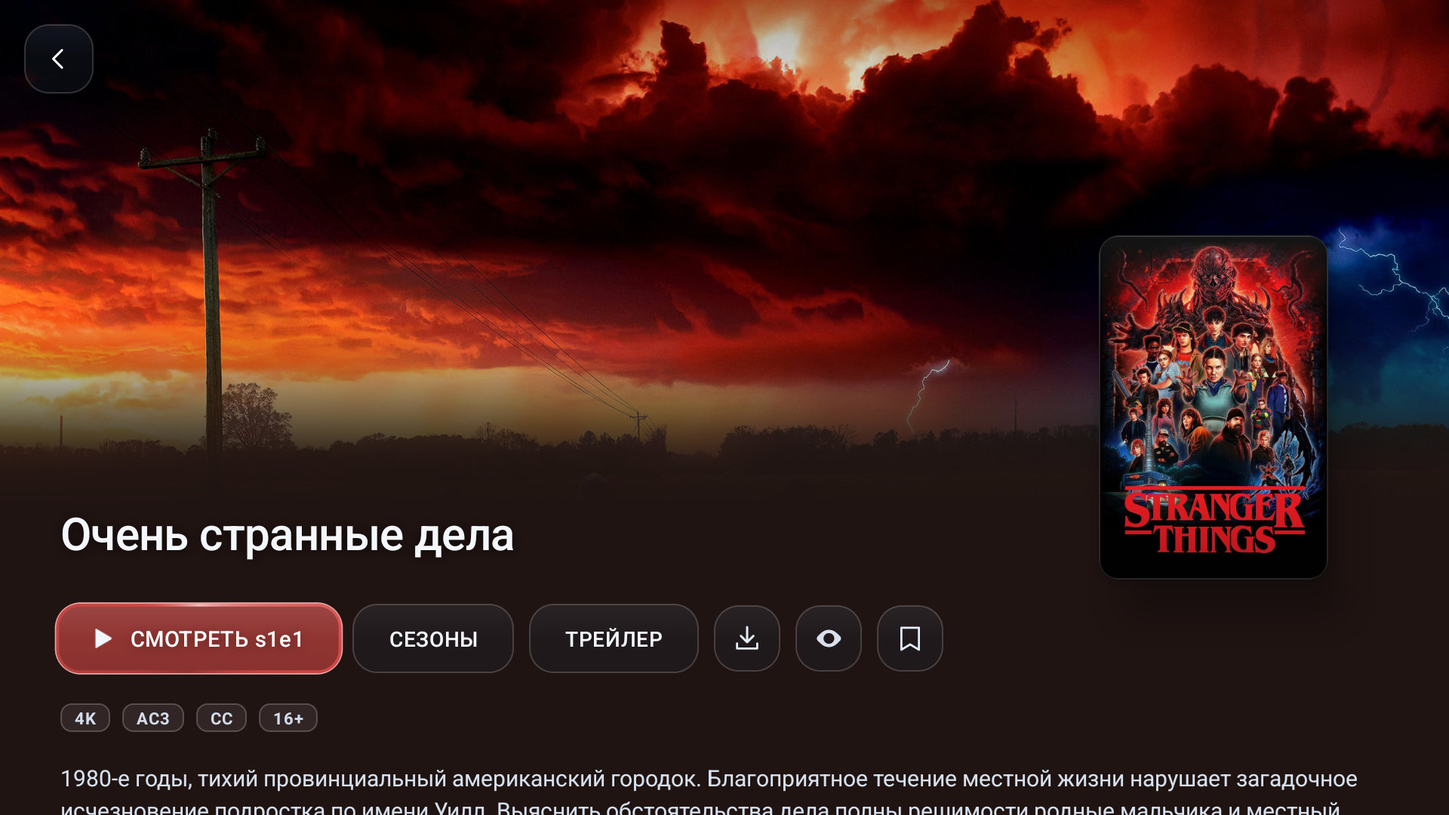
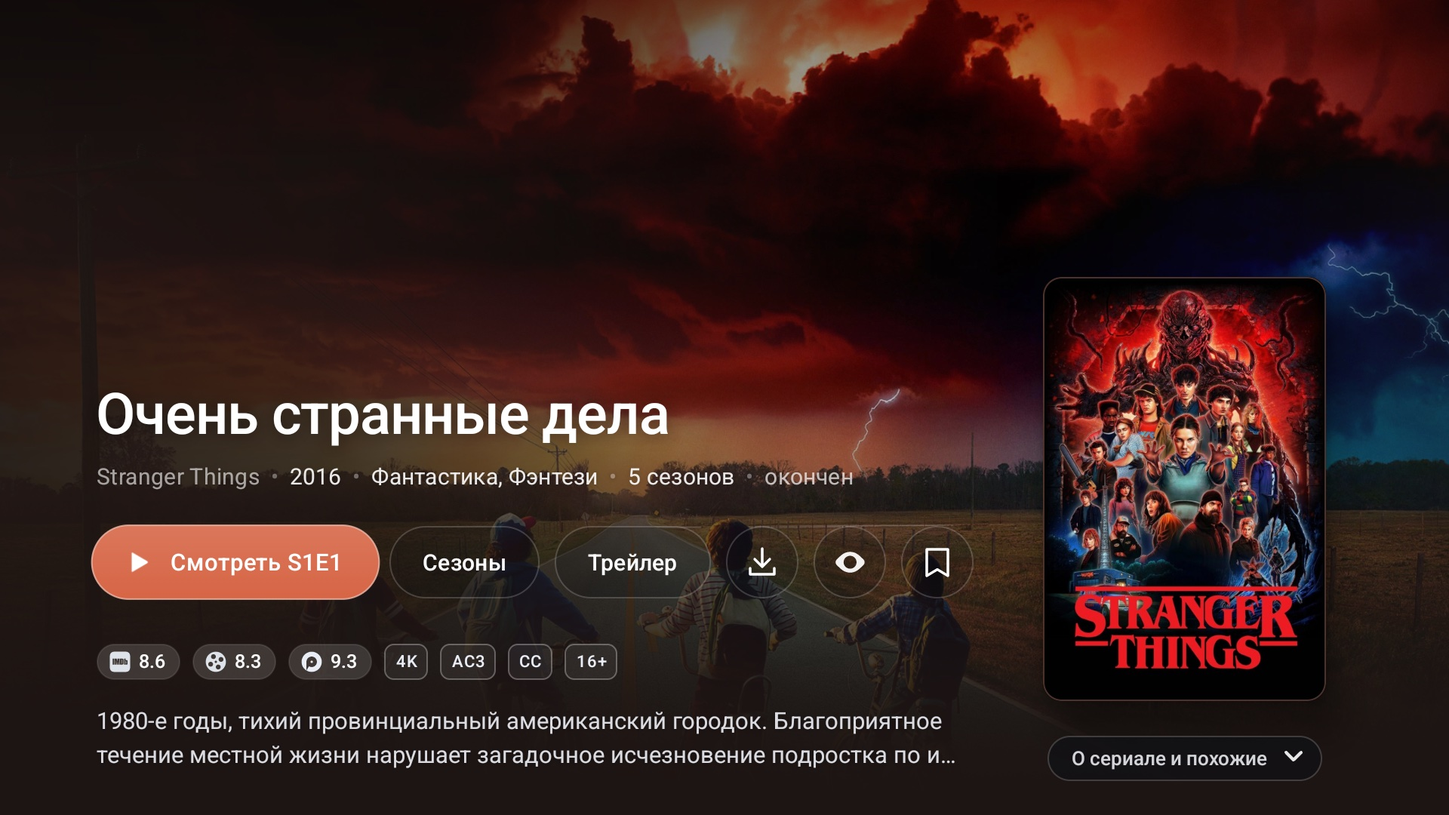
README: v2.5.0, new screenshots
The feature list now covers v2.2.5-v2.5.0 (header with pinned tabs,
ratings on the poster cover, search by actor or director, episode
quality, settings in two sections) and names v2.5.0 as the latest build.
Screenshots retaken on build 187, plus a catalogue shot.

diff --git a/README.md b/README.md
@@ -31,9 +31,15 @@ KinoWatch - клиент видеосервиса kino.pub для телевиз
 ## Скриншоты
 
 <p align="center">
-  <img src="docs/screenshots/home.jpg" width="100%" alt="Главная: выбранный фильм показан крупно, у него играет трейлер">
+  <img src="docs/screenshots/home.jpg" width="100%" alt="Главная: стеклянная шапка с вкладками, у выбранного фильма играет трейлер">
   <br>
-  <em>Главная: выбранный фильм показан крупно, у него играет трейлер</em>
+  <em>Главная: стеклянная шапка с вкладками, у выбранного фильма играет трейлер</em>
+</p>
+
+<p align="center">
+  <img src="docs/screenshots/catalog.jpg" width="100%" alt="Каталог: рейтинги KinoPub, IMDb и КиноПоиск на полоске внизу обложки">
+  <br>
+  <em>Каталог: рейтинги KinoPub, IMDb и КиноПоиск на полоске внизу обложки, под постером название, год и жанры</em>
 </p>
 
 <p align="center">
@@ -49,9 +55,9 @@ KinoWatch - клиент видеосервиса kino.pub для телевиз
 </p>
 
 <p align="center">
-  <img src="docs/screenshots/search.jpg" width="100%" alt="Поиск: сетка постеров с годом и рейтингами IMDb и КП">
+  <img src="docs/screenshots/search.jpg" width="100%" alt="Поиск по запросу «Harry Potter»">
   <br>
-  <em>Поиск: под постером показаны год и рейтинги IMDb и КП</em>
+  <em>Поиск: ищет по названию, а также по имени актёра или режиссёра</em>
 </p>
 
 ## Что добавлено по сравнению с оригиналом 2.07
@@ -61,6 +67,9 @@ KinoWatch - клиент видеосервиса kino.pub для телевиз
 - Новый стартовый экран «Главная»: вкладки «Фильмы» и «Сериалы» с полками, у выбранного фильма
   сам запускается трейлер.
 - Все экраны оформлены как главная: одни цвета, одна шапка, одно окно для вопросов приложения.
+- Любую вкладку можно закрепить в шапке, тогда она видна на всех экранах.
+- Рейтинги KinoPub, IMDb и КиноПоиск стоят прямо на обложке постера.
+- Поиск находит фильмы по имени актёра или режиссёра, имя можно вводить и латиницей.
 - Мод сам предлагает свою новую версию, а после обновления показывает список изменений.
 - Главная и каталог на приставке Xiaomi листаются без рывков.
 - Автовыбор качества включает 4K через 1-2 с после старта, а раньше на это уходило 20-60 с.
@@ -72,10 +81,10 @@ KinoWatch - клиент видеосервиса kino.pub для телевиз
 Полный список изменений раскрывается по разделам.
 
 Изменения последней сборки описаны в релизе
-[v2.2.4](https://github.com/nlarionov/kino-watch-mod/releases/tag/v2.2.4).
+[v2.5.0](https://github.com/nlarionov/kino-watch-mod/releases/tag/v2.5.0).
 
 <details>
-<summary><b>Интерфейс</b>: стеклянное оформление, выделение, страница фильма, боковое меню, тест скорости</summary>
+<summary><b>Интерфейс</b>: стеклянное оформление, шапка и закреплённые вкладки, постеры с рейтингами, страница фильма, боковое меню, тест скорости</summary>
 
 - Новое стеклянное оформление: сквозь боковое меню и верхнюю панель виден размытый экран. В том
   же стиле сделаны кнопки, выпадающие списки и экран настроек.
@@ -83,18 +92,35 @@ KinoWatch - клиент видеосервиса kino.pub для телевиз
   подборки, фильтры, настройки и окна. Цвета одни и те же, без синих оттенков, кнопки в форме
   «таблеток». Все вопросы приложения открываются в одном тёмном окне, серого системного окна
   больше нет.
-- На телевизоре у всех экранов, кроме главной и страницы фильма, шапка главной: меню или
-  «Назад», KINO.WATCH, название экрана, «Поиск», «Фильтры» и часы. Со всех сеток стрелка вверх
-  ведёт в шапку.
+- На телевизорах с Android 9 и новее меню «Открыть с помощью…», выбор сервера и списки в
+  настройках тоже тёмные. Экраны «Загрузки», «Сезоны» и «Эпизоды» получили тёмный фон.
+- На телевизоре у всех экранов одна шапка, как на главной: слева ☰ и KINO.WATCH, справа
+  закреплённые вкладки, ⚙ и часы. Кнопка открытого экрана подсвечена. Кнопки «Назад» в шапке
+  нет, назад ведёт кнопка пульта. Со всех сеток стрелка вверх ведёт в шапку.
+- Выбранная вкладка стоит на светлой стеклянной капсуле, и капсула плавно перетекает на новую
+  вкладку. Настройка «Стиль шапки» возвращает прежнюю плоскую шапку («Классика»).
+- Любую вкладку можно закрепить: она стоит значком справа в шапке и видна на всех экранах.
+  Закрепляют булавкой во «Вкладках стартового экрана» или долгим OK на вкладке.
+- По умолчанию шапка компактная: закреплённые вкладки спрятаны за «‹ ⚙» и выезжают, когда фокус
+  стоит на ⚙ или на одной из них. OK на ⚙ открывает настройки. «Кнопки шапки» → «Все видны»
+  показывает все кнопки сразу.
+- Красная точка новых серий у «Я смотрю» видна в шапке любого экрана.
 - Выделенный постер или кнопка увеличивается, приподнимается и получает светлую рамку, по
   картинке пробегает блик.
-- Под постером в сетке показаны год и рейтинги IMDb и КП. Длинное название выбранного постера
+- Рейтинги KinoPub, IMDb и КиноПоиск стоят на матовой стеклянной полоске внизу обложки. Рейтинг
+  KinoPub показан, если за фильм проголосовали хотя бы 10 человек. Под постером название, год и
+  жанры. Если строка не помещается, первым убирается год. Длинное название выбранного постера
   прокручивается.
 - Страница фильма и сериала: фоновый кадр плавно переходит в цвет постера, кнопки стеклянные.
   Если кнопкам не хватает места, их текст уменьшается или они переходят на вторую строку. На
   телевизоре кнопки «Назад» на экране нет, назад ведёт кнопка пульта.
+- Рейтинг KinoPub на странице фильма показан по 10-балльной шкале, как на сайте. У фильма с
+  несколькими версиями показана длительность одной версии, а не их сумма.
 - На странице фильма под «Похожие» стоят карточки подборок, в которые входит фильм. Карточка
-  открывает подборку.
+  открывает подборку. «Похожие» и «Подборки» того же размера, что постеры в каталоге, и с той
+  же полоской рейтингов.
+- На картинке каждой серии в углу стоит её лучшее качество: 4K, FHD, HD или SD. Так видно,
+  перезалил ли kino.pub серию в лучшем качестве.
 - Кнопка начатой серии называется «Продолжить S2E3», новой серии «Смотреть S2E3». Так же и
   на странице, открытой по ссылке: из каналов главного экрана или из поиска Android TV.
 - Трейлер на странице фильма не записывается как просмотр фильма.
@@ -107,14 +133,13 @@ KinoWatch - клиент видеосервиса kino.pub для телевиз
   последнюю неделю «Осталось 3 дня»). OK на профиле открывает выбор аватара.
 - В боковом меню у «Я смотрю» стоит число новых серий, на главной у вкладки «Я смотрю» горит
   красная точка.
-- У экранов «Я смотрю», «Закладки», «История» и «Загрузки» появилось своё боковое меню. Стрелка
-  влево у левого края или «Назад» открывает его поверх экрана.
+- ☰ в шапке открывает боковое меню прямо на текущем экране. На экранах «Я смотрю», «Закладки»,
+  «История», «Загрузки» и «Подборки» стрелка влево из первого столбца ведёт к ☰. В каталоге
+  стрелка влево открывает меню, как раньше.
 - На экране теста скорости у каждого сервера своя кнопка, а сам экран открывается на «Замерить
   оба сервера». Замер идёт 6 секунд, цифра растёт на глазах. Строка без замера показывает
   результат фонового замера и его возраст. Замер больше не пишет 100 МБ во флеш-память
   приставки.
-- Поиск не показывает ошибку на каждую букву: запрос, который отменила следующая буква, ошибкой
-  не считается.
 - Выключено анимированное свечение вокруг выделенного элемента. Оно рисовалось одну секунду из
   шести, а перерисовывало экран 60 раз в секунду все шесть секунд.
 - Главная и каталог на приставке Xiaomi листаются без рывков. На главной медленных кадров
@@ -129,24 +154,29 @@ KinoWatch - клиент видеосервиса kino.pub для телевиз
 </details>
 
 <details>
-<summary><b>Стартовый экран</b>: вкладки, полки, трейлеры, «Продолжить просмотр»</summary>
+<summary><b>Стартовый экран</b>: вкладки, переключатели, полки, трейлеры, «Продолжить просмотр»</summary>
 
 - Появился экран «Главная». При первом запуске на телевизоре мод открывается на нём. Настройка
   «Стартовый экран» возвращает «Библиотеку», «Я смотрю» или «Закладки».
-- Вверху стоят вкладки «Фильмы», «Сериалы», «Я смотрю», «Поиск» и «Каталог». Вкладки
-  «Мультфильмы», «Аниме», «Мультсериалы», «ТВ шоу», «Концерты», «4K», «Документальные»,
-  «Закладки» и «История» включаются в настройке «Вкладки стартового экрана», там же меняется
-  порядок вкладок.
+- Вверху стоят вкладки «Фильмы» и «Сериалы». «Я смотрю», «Закладки», «История», «Поиск» и
+  «Каталог» в новой установке закреплены справа в шапке. Вкладки «Мультфильмы», «Аниме», «ТВ
+  шоу», «Концерты», «4K», «Документальные», «Подборки» и «Спорт-ТВ» включаются в настройке
+  «Вкладки стартового экрана», там же меняется порядок вкладок.
+- Долгий OK на вкладке: стрелки влево и вправо переставляют её, вверх и вниз закрепляют и
+  открепляют.
+- На вкладке «Мультфильмы» есть переключатель «Мультфильмы | Мультсериалы», выбор запоминается.
+  На вкладках «Аниме», «Документальные» и «4K» есть переключатель «Фильмы | Сериалы», «Аниме»
+  открывается на сериалах.
 - Вкладка «Аниме» показывает аниме, даже если включено «Отключение аниме».
-- Вкладки «Фильмы» и «Сериалы» собраны из полок: «Продолжить просмотр», «Сейчас в тренде»,
-  новые, популярные и, если включить, 4K. На вкладке «Мультфильмы» можно включить полки «Лучшие
-  KINO.WATCH», «Лучшие IMDb» и «Лучшие КиноПоиск».
+- Каждая вкладка собрана из одинаковых полок: «Сейчас в тренде», новые и популярные. На
+  вкладках «Фильмы» и «Сериалы» есть ещё «Продолжить просмотр». Полки 4K и лучшие по оценкам
+  KINO.WATCH, IMDb и КиноПоиска включаются в «Разделах и порядке».
 - Полка «Сейчас в тренде» показывает фильмы крупно. У выбранного фильма сам запускается
   трейлер со звуком, кнопка Play на пульте включает и выключает звук. С выключенной настройкой
   «Автоматические трейлеры» видна только обложка.
-- Последняя карточка полки, «Смотреть все», открывает раздел целиком. У «Продолжить просмотр»
-  эта карточка называется «Все» и открывает «Я смотрю» на фильмах или на сериалах, смотря на
-  какой вкладке стоит полка.
+- Последняя карточка полки, «Смотреть все», открывает тот же список в каталоге. У «Продолжить
+  просмотр» эта карточка называется «Все» и открывает «Я смотрю» на фильмах или на сериалах,
+  смотря на какой вкладке стоит полка.
 - Карточка в «Продолжить просмотр» сразу запускает видео с места остановки, сериал с нужной
   серии. На карточке написано, сколько осталось или какая серия следующая.
 - В «Продолжить просмотр» попадает начатый сериал, даже без подписки. Подписка нужна только для
@@ -154,6 +184,8 @@ KinoWatch - клиент видеосервиса kino.pub для телевиз
   недавно.
 - Сериал или фильм, который пересматривают, тоже попадает в «Продолжить просмотр». После
   досмотренной серии ряд предлагает следующую, недосмотренную продолжает с места остановки.
+- В «Продолжить просмотр» нет фильмов, досмотренных до титров, фильмов, которые только открыли,
+  и сериалов, целиком отмеченных просмотренными. Ряд появляется, только когда в нём что-то есть.
 - Что показывать в «Продолжить просмотр» на вкладках «Фильмы» и «Сериалы», выбирается в
   настройках: только фильмы или сериалы этой вкладки, или всё вместе.
 - Если kino.pub временно отказал («слишком много запросов»), «Продолжить просмотр» не пропадает
@@ -165,6 +197,23 @@ KinoWatch - клиент видеосервиса kino.pub для телевиз
 - Набор и порядок полок меняются в настройке «Разделы и порядок».
 - На телефоне у главной своя раскладка для сенсорного экрана.
 - Чтобы выйти с главной, «Назад» нужно нажать дважды.
+
+</details>
+
+<details>
+<summary><b>Каталог и поиск</b>: одинаковые списки во всех разделах, «Аниме» в меню, поиск по актёрам</summary>
+
+- В каждом разделе каталога одни и те же списки, если они есть на kino.pub: все, новинки,
+  популярные, в тренде, 4K, лучшие KINO.WATCH, лучшие IMDb и лучшие КиноПоиск. «Горячие» теперь
+  называются «В тренде», как на главной.
+- В «Мультфильмах», «Аниме» и «4K» сначала идут все списки фильмов, потом все списки сериалов.
+  Для мультсериалов есть свои списки.
+- В боковом меню есть раздел «Аниме».
+- Поиск находит фильмы актёров и режиссёров, имя можно вводить и латиницей: «Tom Hardy»,
+  «Nolan». Если запрос похож на имя, фильмы этого человека стоят первыми. Имена, которые
+  kino.pub пишет иначе («Киану Ривз»), латиницей не находятся.
+- Поиск не показывает ошибку на каждую букву: запрос, который отменила следующая буква, ошибкой
+  не считается.
 
 </details>
 
@@ -191,7 +240,8 @@ KinoWatch - клиент видеосервиса kino.pub для телевиз
 - Уведомление про 4K не появляется на телевизоре без 4K. На телевизоре с 4K его кнопка
   открывает настройки, где 4K включается.
 - В меню «Субтитры» отмечен пункт «Выключить», когда субтитры выключены.
-- Блок статистики стоит справа в строке с названием и не закрывает его.
+- Верхняя панель плеера на телевизоре компактная: название и «Видео / Аудио / Субтитры» слева,
+  статистика справа на той же высоте. Кнопки «Назад» и тёмной полосы больше нет.
 - TalkBack называет кнопки скорости и масштаба своими именами, а не «Следующий трек».
 
 </details>
@@ -225,21 +275,30 @@ KinoWatch - клиент видеосервиса kino.pub для телевиз
 </details>
 
 <details>
-<summary><b>Настройки</b>: стартовый экран, вкладки, полки, размер интерфейса, трейлеры, фото актёров, аватар, загрузки, каналы</summary>
+<summary><b>Настройки</b>: два раздела интерфейса, вкладки, полки, шапка, размер интерфейса, трейлеры, фото актёров, аватар, загрузки, каналы</summary>
 
+- Настройки интерфейса разделены на два раздела. «Стартовый экран»: вкладки, полки,
+  «Продолжить просмотр», трейлеры, меню. «Внешний вид»: размер интерфейса, стиль и кнопки шапки,
+  постеры, цвет выделения. BACK сначала закрывает открытый раздел, второй BACK выходит из
+  настроек.
 - «Стартовый экран»: добавлен вариант «Новый стартовый экран».
-- «Вкладки стартового экрана»: какие вкладки показывать в шапке главной и в каком порядке.
+- «Вкладки стартового экрана»: какие вкладки показывать в шапке главной, в каком порядке и
+  какие закрепить (булавка в строке вкладки).
 - «Разделы и порядок»: какие полки показывать на вкладках главной и в каком порядке. С пульта
   выберите ☰ у полки, нажмите OK и двигайте её стрелками вверх и вниз. Порядок по умолчанию
   можно восстановить.
 - «Элементов в строке»: 10 или 20 фильмов и сериалов в каждой полке главной.
 - «Размер интерфейса»: «Компактный», «Стандартный» или «Крупный». Меняет шрифт, кнопки и
   постеры на всех экранах телевизора, по умолчанию стоит «Стандартный».
+- «Стиль шапки»: «Стекло» (по умолчанию) или «Классика», плоская шапка как раньше.
+- «Кнопки шапки»: «Компактно» (по умолчанию, закреплённые вкладки спрятаны за «‹ ⚙») или «Все
+  видны».
 - «Продолжить просмотр: страница «Фильмы»» и «…«Сериалы»»: «Только фильмы» или «Фильмы и
   сериалы», и так же для сериалов.
 - «Отключение индийского контента» и «Отключение российского контента» (вместе с СССР) скрывают
   фильм или сериал, если среди стран производства есть эта страна. Работают на главной и в
-  каталоге, «Продолжить просмотр» не скрывают. По умолчанию выключены.
+  каталоге, «Продолжить просмотр» не скрывают. По умолчанию выключены. «Отключение аниме» теперь
+  тоже флажок.
 - «Автоматические трейлеры» включают и выключают трейлеры на главной. Выключите их, чтобы
   экономить трафик.
 - «Фото актёров и режиссёров»: сюда вводится личный ключ Kinopoisk API Unofficial
@@ -267,8 +326,11 @@ KinoWatch - клиент видеосервиса kino.pub для телевиз
 - Файл скачивается во внутреннюю память приложения, доступ ко всем файлам для этого не нужен.
 - При первом обновлении Android может попросить разрешить приложению установку приложений.
   После этого откройте приложение и проверьте обновление ещё раз.
-- После обновления один раз показывается список изменений этой версии. Его можно открыть и в
-  настройках: «О приложении», «Лог изменений приложения».
+- После обновления один раз показывается список изменений всех версий, вышедших после
+  установленной. В настройках «О приложении» → «Лог изменений приложения» показывает все версии
+  с v2.2.0.
+- «О приложении» → «Версия» показывает номер выпуска, например «v2.5.0 (2.07.24-Mod, сборка
+  187)». Тот же номер есть в отчёте о сбое.
 
 </details>
 
@@ -295,7 +357,7 @@ KinoWatch - клиент видеосервиса kino.pub для телевиз
 
 ## Установка
 
-Последняя сборка: **v2.2.4** (2.07.24-Mod), 1 октября 2026.
+Последняя сборка: **v2.5.0** (2.07.24-Mod), 4 октября 2026.
 
 - Файл: https://github.com/nlarionov/kino-watch-mod/releases/latest/download/kino-watch-mod.apk
 - На телевизоре: откройте Downloader и введите код **4159634**. Код всегда ведёт на самую свежую
